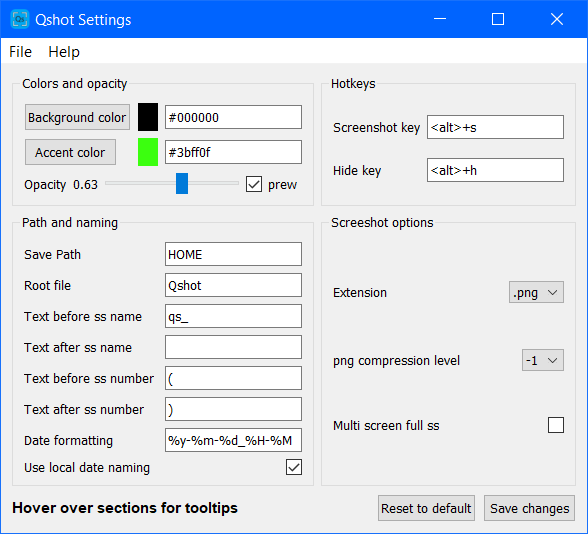
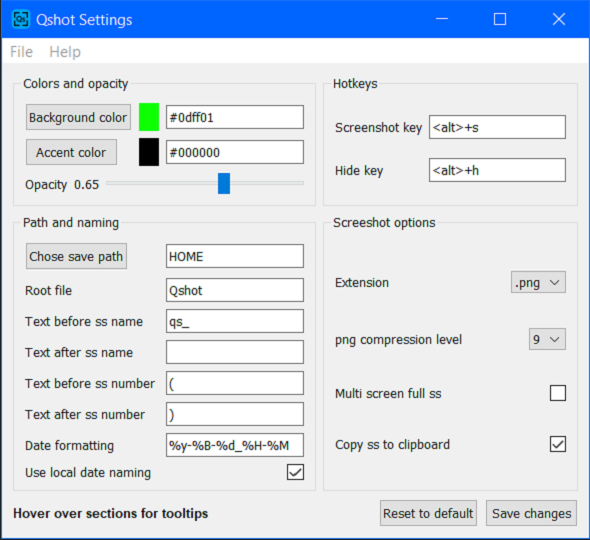
readme updated

diff --git a/README.md b/README.md
@@ -2,7 +2,7 @@
 #### A simple, quick, customizable screenshot tool.
 ___
 
-![](https://img.shields.io/github/repo-size/cccaaannn/Quickshot?style=flat-square) [![GitHub license](https://img.shields.io/github/license/cccaaannn/imagepreprocessing?style=flat-square)](https://github.com/cccaaannn/Quickshot/blob/master/LICENSE) [![GitHub release](https://img.shields.io/github/v/release/cccaaannn/Quickshot)](https://img.shields.io/github/v/release/cccaaannn/Quickshot)
+![](https://img.shields.io/github/repo-size/cccaaannn/Quickshot?style=flat-square) [![GitHub license](https://img.shields.io/github/license/cccaaannn/imagepreprocessing?style=flat-square)](https://github.com/cccaaannn/Quickshot/blob/master/LICENSE) [![GitHub release](https://img.shields.io/github/v/release/cccaaannn/Quickshot)](https://github.com/cccaaannn/Quickshot/releases)
 
 
 ## Features
@@ -29,14 +29,15 @@ Quickshot has several customization options.
 
 - Background, accent color and opacity.
 - Hotkey customization.
-- Save path. (Any path or 'HOME' user home)
+- Save path.
 - Several options for screenshot name.
-- Date formatting customization for screenshot name. (datetime module style)
+- Date formatting customization for screenshot name.
 - Locale date naming.
-- Screenshot extension. (png or jpg) 
+- Screenshot extension.
 - Multi screen support for full screen screenshots.
+- Can copy screenshots to the clipboard.
 
 <br/>
-<img src="readme_images/settings_example1.png" alt="drawing" width="400"/><img src="readme_images/settings_example2.png" alt="drawing" width="450"/>
+<img src="readme_images/settings_example1.png" alt="drawing" width="400"/><img src="readme_images/settings_example2.png" alt="drawing" width="400"/>
 <br/>
 
